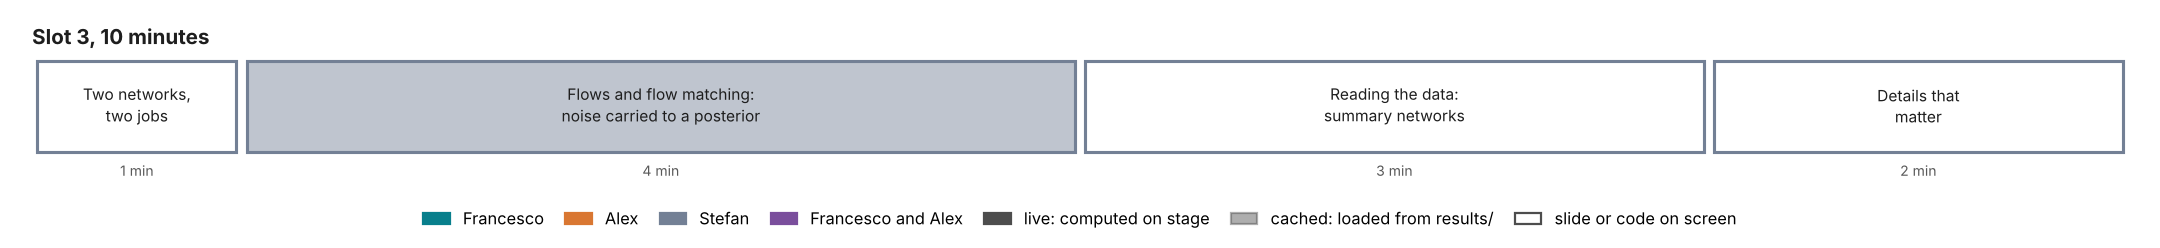
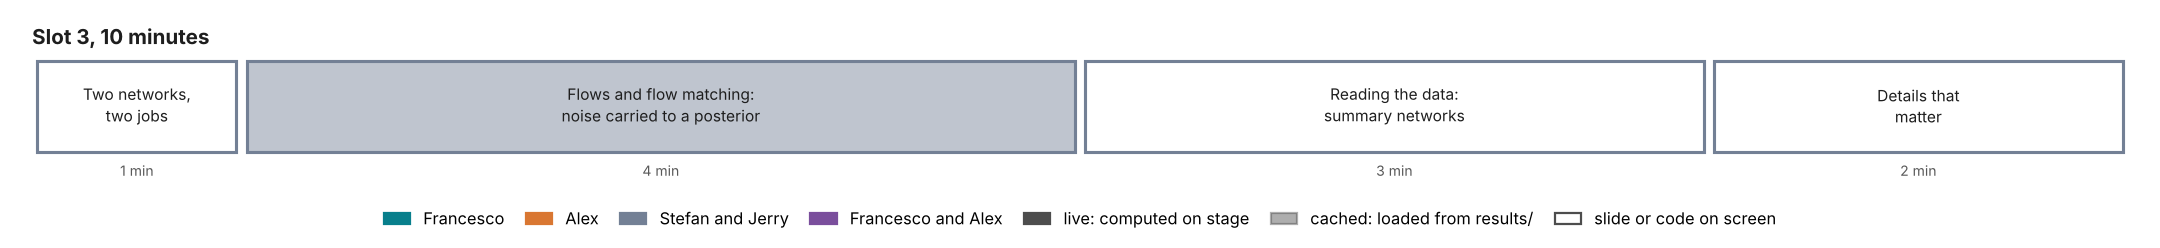
Give Jerry Stefan's slots, and drop the take-home track
- Slots 3, 4 and 6 name Stefan and Jerry: the overview's slot table,
  chart and dates, the slot files, and the storyboard figures, redrawn
  (ladder.png, which the notebooks show, is unchanged).
- Decision D21 applied: the summary, the gaps against the proposal and
  the slot files no longer send returns material to a take-home track;
  slot 3's notebook no longer points to a returns notebook.

Changed region(s): [[0.1551, 0.8468, 0.8375, 0.9315]]

diff --git a/tutorial/notebooks/slot3_architectures.py b/tutorial/notebooks/slot3_architectures.py
@@ -138,7 +138,7 @@ def _(mo):
     |:---|:---|:---|:---|
     | A smile on the design grid | a fixed vector of 63 prices (and, in slot 5, the forward-variance curve as context) | no summary network: the standardized prices enter as conditions | slots 4 and 5 |
     | A real option chain | a set of (log-moneyness, maturity, price, noise) tuples, of varying size and order | a set network (DeepSet, set transformer), invariant to the order of the quotes | the extension that removes the design grid |
-    | Daily returns | a series of 1,000 values | a time-series network: convolutions, then a recurrent or attention layer | the take-home returns notebook |
+    | Daily returns | a series of 1,000 values | a time-series network: convolutions, then a recurrent or attention layer | not in the tutorial |
     | Any data, for misspecification tests | any | a summary network trained with a distance term in its output space (Schmitt et al. 2024) | slot 6 |
 
     In BayesFlow each is one line, and the rest of the workflow does not change:
@@ -149,8 +149,7 @@ def _(mo):
     bf.networks.TimeSeriesNetwork(summary_dim=32)          # a return series
     ```
 
-    Where sufficient statistics exist, a learned summary rediscovers them: the take-home returns notebook
-    shows a time-series network recovering the log standard deviation of the returns unaided.
+    Where sufficient statistics exist, a learned summary rediscovers them.
 
     ## 3 · The configuration slot 4 trains
 

diff --git a/tutorial/curriculum/storyboard.py b/tutorial/curriculum/storyboard.py
@@ -22,7 +22,7 @@ OUT = TUTORIAL_DIR / "curriculum" / "images"
 COSTS = TUTORIAL_DIR / "assets" / "results" / "calibration" / "costs" / "costs.json"
 
 PRESENTER = {"F": "#087F8C", "A": "#D97732", "S": "#738095", "FA": "#7A4E9C"}
-NAMES = {"F": "Francesco", "A": "Alex", "S": "Stefan", "FA": "Francesco and Alex"}
+NAMES = {"F": "Francesco", "A": "Alex", "S": "Stefan and Jerry", "FA": "Francesco and Alex"}
 ALPHA = {"live": 1.0, "cached": 0.45, "slide": 1.0}
 TEXT = {"live": "white", "cached": "#1E1E1E", "slide": "#1E1E1E"}
 

diff --git a/tutorial/curriculum/00-overview.md b/tutorial/curriculum/00-overview.md
@@ -10,10 +10,10 @@ For the proposed next numerical campaign, read the [experiment plan](../../lab/p
 | --- | --- | --- | --- |
 | [01-slot1-the-problem.md](01-slot1-the-problem.md) | 1. The problem: Bayes for volatility models | Francesco | 15 |
 | [02-slot2-amortized-bayes.md](02-slot2-amortized-bayes.md) | 2. What is amortized Bayes? | Alex | 15 |
-| [03-slot3-architectures.md](03-slot3-architectures.md) | 3. Network architectures | Stefan | 10 |
-| [04-slot4-heston-in-bayesflow.md](04-slot4-heston-in-bayesflow.md) | 4. A worked example in BayesFlow: Heston on the SPY smile | Stefan | 20 |
+| [03-slot3-architectures.md](03-slot3-architectures.md) | 3. Network architectures | Stefan, Jerry | 10 |
+| [04-slot4-heston-in-bayesflow.md](04-slot4-heston-in-bayesflow.md) | 4. A worked example in BayesFlow: Heston on the SPY smile | Stefan, Jerry | 20 |
 | [05-slot5-rough-bergomi-to-a-reserve.md](05-slot5-rough-bergomi-to-a-reserve.md) | 5. Rough Bergomi on the SPY smile: from the posterior to a reserve | Francesco, Alex | 40 |
-| [06-slot6-priors-and-misspecification.md](06-slot6-priors-and-misspecification.md) | 6. Changing priors and dealing with misspecified models | Stefan | 15 |
+| [06-slot6-priors-and-misspecification.md](06-slot6-priors-and-misspecification.md) | 6. Changing priors and dealing with misspecified models | Stefan, Jerry | 15 |
 
 A number written ⟨Sn⟩ comes from study Sn ([course/status.md](../../course/status.md)) and is not on screen until [CLAIMS.md](../CLAIMS.md) records the final run.
 
@@ -32,9 +32,9 @@ Slots 2 and 3 explain the machine between them. Slot 6 changes the prior and the
 **What changed from revision 1, and why.**
 
 - **Slot 4 moves from returns to the smile.** It was GBM on VOO returns, under the real-world measure P, followed in slot 5 by option quotes under the pricing measure Q. That switch changed the data, the measure, the model and the question at once. Slot 4 is now Heston on the SPY smile, so slot 5 changes only the simulator. The exact Heston check moves from slot 5 to slot 4.
-- **The returns material goes home.** The VOO notebook, the SVJ lesson and the crash-day prior example become a take-home track (§6). This widens the gap against the proposal, which calibrates from returns (§8).
+- **The returns material is left out.** The VOO notebook, the SVJ lesson and the crash-day prior example are not part of the release (decision D21, §6). This widens the gap against the proposal, which calibrates from returns (§8).
 - **Slot 1 is rewritten slide by slide**, with one line of argument: the marking procedure, an example of the problem, what the rules ask for, the posterior in one live example, why richer models make it expensive, and the way around.
-- **Slots 2, 3 and 6 have proposals**, each built on the same smile, for Alex's and Stefan's review.
+- **Slots 2, 3 and 6 have proposals**, each built on the same smile, for Alex's, Stefan's and Jerry's review.
 
 **A feasibility run supports the new slot 4.** The exact Heston posterior on SPY ($\kappa$ = 2 fixed, the bank's prior box) was computed on 23 October in 531 CPU-seconds. Seven of eight optimizer starts spread over the prior box reach the same optimum, and four chains from overdispersed starts agree ($\hat R \le 1.007$). The posterior is tight: $\sigma_v$ = 1.14 ± 0.04 and $\rho$ = −0.63 ± 0.02. No draw satisfies the Feller condition: the vol-of-vol is about twice its Feller limit. The posterior prices variance swaps 0.6 to 1.7 volatility points below SPY's replicated strikes from two weeks to one year, with 90% bands 0.3 to 0.6 points wide. This gives slot 4 a real-data ending and slot 5 its reason to change model. Details are in the slot 4 file; the run is redone as study S8-H before its numbers go on screen.
 
@@ -95,10 +95,10 @@ The argument runs as one chain. Solid arrows are the main handoffs; dashed arrow
 ```mermaid
 flowchart LR
   S1["1. The problem<br/>Francesco, 15 min<br/>Black-Scholes on two SPY quotes"] -->|"richer models make the posterior expensive"| S2["2. Amortized Bayes<br/>Alex, 15 min<br/>a network learns slot 1's posterior"]
-  S2 -->|"what q must be, how to check it"| S3["3. Architectures<br/>Stefan, 10 min<br/>flow matching, summary networks"]
-  S3 -->|"the configuration"| S4["4. Heston on SPY in BayesFlow<br/>Stefan, 20 min<br/>checked against the exact posterior"]
+  S2 -->|"what q must be, how to check it"| S3["3. Architectures<br/>Stefan and Jerry, 10 min<br/>flow matching, summary networks"]
+  S3 -->|"the configuration"| S4["4. Heston on SPY in BayesFlow<br/>Stefan and Jerry, 20 min<br/>checked against the exact posterior"]
   S4 -->|"same smile and code, new simulator"| S5["5. Rough Bergomi on SPY<br/>Francesco and Alex, 40 min<br/>posterior, audit, reserve"]
-  S5 -->|"every range is conditional"| S6["6. Priors and misspecification<br/>Stefan, 15 min"]
+  S5 -->|"every range is conditional"| S6["6. Priors and misspecification<br/>Stefan and Jerry, 15 min"]
   S1 -.->|"the posterior is conditional on the model"| S6
   S4 -.->|"Heston's variance swaps below SPY's"| S6
 ```
@@ -171,9 +171,9 @@ The audience has read the proposal. Each promise the curriculum does not keep ne
 
 | The proposal promises | The curriculum | Proposed handling |
 | --- | --- | --- |
-| Calibration from return series (its Figure 1, "simulated pairs (parameters, return series)"), with joint returns-and-options calibration named as the follow-on edition | Every slot works on an option smile | Decision D16. Slot 1 says in one line why the afternoon uses options and that returns go home; the take-home track (§6) carries returns |
-| Propagation into volatility forecasts and value-at-risk (learning outcome 4) | Propagation into product prices and a reserve | Partly kept; VaR and volatility forecasts are in the take-home track |
-| Five model families: Heston, jump diffusion, GARCH, rough, multifractal | Black–Scholes, Heston, rough Bergomi; Heston with jumps as one slide | Name the take-home notebooks on slot 1's last slide, the SVJ and multifractal notebooks included; GARCH has no notebook: say so, or drop it from the slide |
+| Calibration from return series (its Figure 1, "simulated pairs (parameters, return series)"), with joint returns-and-options calibration named as the follow-on edition | Every slot works on an option smile | Decision D16. Slot 1 says in one line why the afternoon uses options and that returns are left out (decision D21) |
+| Propagation into volatility forecasts and value-at-risk (learning outcome 4) | Propagation into product prices and a reserve | Partly kept; VaR and volatility forecasts are left out (decision D21) |
+| Five model families: Heston, jump diffusion, GARCH, rough, multifractal | Black–Scholes, Heston, rough Bergomi; Heston with jumps as one slide | GARCH and the multifractal model are not covered: say so on slot 1's last slide |
 | Two notebooks live and one taken home, in student and solved versions, runnable on Colab | Live notebooks in slots 1, 2, 4, 5 and 6 | Decision D10 for the number; decision D17 for the student and solved versions; on Colab, the tutorial installs with pip (`tutorial/README.md`) |
 | Half a day, 3.5 hours: principles (1 h with a break), a worked example hands-on (1.5 h with a break), advanced concepts and a second example (1 h with a 15-minute Q&A) | 115 minutes of talks; about 95 minutes of the 3.5 hours unassigned | Decision D12: assign the time to breaks, the Q&A and exercises after slots 4 and 5 |
 | A close with "a broader view of the field and recent developments" | Slot 6's last minute | Slot 6's close names recent developments in one slide, or the Q&A opens with them |
@@ -181,7 +181,7 @@ The audience has read the proposal. Each promise the curriculum does not keep ne
 | Four organizers teaching | Jerry Huang has the same role as Stefan | Decision D18 |
 | "Attendees calibrate real market data and sign off on the diagnostics" | Presenters do it on SPY | Decision D12: exercises after slots 4 and 5 |
 | LLM-based verification agents, used hands-on | Not in any slot | Decision D11: a two-minute demonstration in slot 4's check step, or drop it and say so |
-| "Special emphasis" on learning from series of different scales, dimensions, lengths and degrees of missingness; autoregressive samplers | Not in any slot; the smile is a fixed grid | The largest content gap after returns. Slot 3 can show the set network for real chains as the answer for quotes; time series stay in the take-home track. Say so rather than imply coverage |
+| "Special emphasis" on learning from series of different scales, dimensions, lengths and degrees of missingness; autoregressive samplers | Not in any slot; the smile is a fixed grid | The largest content gap after returns. Slot 3 can show the set network for real chains as the answer for quotes; time series are not covered. Say so rather than imply coverage |
 | "Full posterior distributions in milliseconds" | 1.4 s for 1,000 draws | Say seconds |
 | Mis-specification diagnostics (learning outcome 2) | Slot 6 | Kept |
 | Read identifiability off the posterior (learning outcome 3) | Slots 4 and 5 | Kept |
@@ -192,10 +192,10 @@ The audience has read the proposal. Each promise the curriculum does not keep ne
 | --- | --- | --- |
 | Sat 24 Oct | G0′ passed: the rough bank's curve prior covers SPY's curve | Done |
 | Wed 28 Oct | G1: the full rough bank and its quality (S1) | Alex |
-| Fri 30 Oct | G2: SBC of the rough network on the full bank (S2); freeze of slot 4; S8-H (Heston on SPY) accepted | Alex; Stefan |
+| Fri 30 Oct | G2: SBC of the rough network on the full bank (S2); freeze of slot 4; S8-H (Heston on SPY) accepted | Alex; Stefan and Jerry |
 | Tue 3 Nov | G3: the audit on held-out smiles, with the corrected likelihood (S5) | Alex |
-| Wed 4 Nov | G4: the posterior predictive check on SPY (S8); freezes of slots 1, 2 and 3 | Francesco; Alex; Stefan |
-| Fri 6 Nov | Freezes of slots 5 and 6 | Francesco, Alex, Stefan |
+| Wed 4 Nov | G4: the posterior predictive check on SPY (S8); freezes of slots 1, 2 and 3 | Francesco; Alex; Stefan and Jerry |
+| Fri 6 Nov | Freezes of slots 5 and 6 | Francesco, Alex, Stefan, Jerry |
 | Mon 9 Nov | Full timed run-through | All |
 | Wed 11 Nov | Release tag; participant README | Francesco |
 

diff --git a/tutorial/curriculum/06-slot6-priors-and-misspecification.md b/tutorial/curriculum/06-slot6-priors-and-misspecification.md
@@ -1,6 +1,6 @@
 # Slot 6. Changing priors and dealing with misspecified models
 
-Stefan · 15 minutes · last slot of the afternoon. A proposal for Stefan's review. Part of the [curriculum](00-overview.md).
+Stefan and Jerry · 15 minutes · last slot of the afternoon. A proposal for Stefan and Jerry's review. Part of the [curriculum](00-overview.md).
 
 ![Minute map of slot 6](images/slot-6.png)
 
@@ -27,9 +27,9 @@ Slot 5 ends on four conditions: the prior, the noise model, the forward-variance
 | 6–8 | 3. The noise model is a choice | The Heston network of (c), with the noise multiplier $c$ as a second condition: $c$ from 0.5 to 3 on a slider, the posterior width and the variance-swap range following | live | The quotes' noise is an assumption, and the posterior's width scales with it. The noise model is stated, and the range is shown under alternatives. |
 | 8–13 | 4. When the model is wrong: four detectors | One example per detector, all on the tutorial's smiles: (i) the input check: SPY's forward-variance curve against the pilot's curve prior (outside it, gate G0); (ii) the posterior predictive check: Heston's re-priced smiles on SPY, with their over-curved short smiles, and slot 4's variance swaps; (iii) the audit: Heston on a rough-Bergomi pilot smile, $\chi^2$ of 1,347 on 63 quotes, $\hat k$ = 154; (iv) a learned summary space: the distance of SPY and of rough-Bergomi smiles from the Heston training set (Schmitt et al. 2024) | (i)–(iii) cached; (iv) cached if built | The network gives a confident posterior for any input. Each detector looks from outside: at the inputs, at the fit, at the likelihood, or at the summaries. |
 | 13–14 | 5. Across models | Slot 5's two forward-start distributions on SPY, Heston and rough Bergomi; if they are late, the pilot's three smiles | cached | When both models are wrong in different ways, report both and the spread between them, judged smile by smile. Model averaging and stacking are the formal versions. |
-| 14–15 | 6. Close | What the afternoon showed, in three lines; the take-home track; the repository | slide | The method needs a simulator, a prior and a noise model, and it is only as good as its checks. |
+| 14–15 | 6. Close | What the afternoon showed, in three lines; the repository | slide | The method needs a simulator, a prior and a noise model, and it is only as good as its checks. |
 
-**Optional slides.** The minute plan has no free minute, so two slides of the course's [version-2 plan](../../course/v2-plan.md) are optional: pooling across names (Section 2.3) and the prior beyond the last quote (Section 2.2). Both are specified below, at one minute each. Each can take the time of a piece that is not built (Open choices for Stefan).
+**Optional slides.** The minute plan has no free minute, so two slides of the course's [version-2 plan](../../course/v2-plan.md) are optional: pooling across names (Section 2.3) and the prior beyond the last quote (Section 2.2). Both are specified below, at one minute each. Each can take the time of a piece that is not built (Open choices for Stefan and Jerry).
 
 ## The pieces, specified
 
@@ -62,7 +62,7 @@ The bank of slot 4 is regenerated with $(m, w, c)$ drawn per smile: about 46 CPU
 | The audit | That the network's posterior survives reweighting by the likelihood | Heston on rough pilot smile 291: $\chi^2$ of 1,347 on 63 quotes, $\hat k$ = 154 | Seconds for Heston, about 7 CPU-minutes for rough Bergomi |
 | Learned summary space | That the data's learned summaries lie inside the training set's (Schmitt et al. 2024) | SPY and rough-Bergomi smiles against the Heston training set | Needs a Heston network with a summary network trained with the distance term |
 
-The fourth detector is the one slot 3 names. It needs a summary network, which slots 4 and 5 do not use: building it is a choice for Stefan (below).
+The fourth detector is the one slot 3 names. It needs a summary network, which slots 4 and 5 do not use: building it is a choice for Stefan and Jerry (below).
 
 ### Optional slide: pooling across names
 
@@ -92,12 +92,12 @@ The fourth detector is the one slot 3 names. It needs a summary network, which s
 2. The sensitivity-aware Heston network: a bank with $(s, c)$ per smile and one training run.
 3. Optionally, a Heston network with a summary network trained with the distance term of Schmitt et al. (2024), for the fourth detector.
 
-## Open choices for Stefan
+## Open choices for Stefan and Jerry
 
 - Whether the sensitivity-aware network is built, or section 2(c) and section 3 use reweighting only. Reweighting a narrower posterior to a wider one (a larger noise) is unreliable, so the noise slider needs the network.
 - Whether to build the summary-space detector, or show the first three detectors only.
 - Whether to show the two optional slides, at one minute each. The time could come from section 2(c) if the sensitivity-aware network is not built, or from detector (iv) if the summary-space detector is not.
-- Whether to keep a returns example. The crash-day example (branch `feat/tutorial-slot6-crash-risk`, #42), in which the prior decides much of the answer, is ready as a take-home notebook, and could replace section 2(a) if a returns example is preferred.
+- Whether to keep a returns example. The crash-day example (branch `feat/tutorial-slot6-crash-risk`, #42), in which the prior decides much of the answer, is drafted as a notebook, and could replace section 2(a) if a returns example is preferred.
 
 ## References for the slot
 

diff --git a/tutorial/curriculum/03-slot3-architectures.md b/tutorial/curriculum/03-slot3-architectures.md
@@ -1,6 +1,6 @@
 # Slot 3. Network architectures for amortized inference
 
-Stefan · 10 minutes. A proposal for Stefan's review. Part of the [curriculum](00-overview.md).
+Stefan and Jerry · 10 minutes. A proposal for Stefan and Jerry's review. Part of the [curriculum](00-overview.md).
 
 ![Minute map of slot 3](images/slot-3.png)
 
@@ -41,7 +41,7 @@ Sampling integrates $dz/d\tau = u_\phi(z, \tau, y)$ from $\tau = 0$ to 1. Slots 
 | --- | --- | --- | --- |
 | A smile on the design grid | A fixed vector of 63 prices, plus the forward-variance curve as context in slot 5 | No summary network: standardized quotes as conditions | Slots 4 and 5 |
 | A real option chain | A set of (log-moneyness, maturity, price, noise) tuples, of varying size and order | A set network (DeepSet, set transformer), invariant to the order of the quotes | The extension that removes the design grid (Stage D) |
-| Daily returns | A series of 1,000 values | A time-series network (convolutions, then a recurrent or attention layer) | The take-home returns notebook |
+| Daily returns | A series of 1,000 values | A time-series network (convolutions, then a recurrent or attention layer) | Not in the tutorial |
 | Any data, for misspecification tests | Whatever shape | A summary network trained with a distance term in its output space (Schmitt et al. 2024) | Slot 6 |
 
 ## The configuration, line by line
@@ -65,7 +65,7 @@ Normalizing flows and flow matching; the choice of summary network by data shape
 1. The five-snapshot figure of the flow on SPY, from the slot-4 network, with intermediate states saved from a custom Euler loop.
 2. The coupling-layer diagram and the data-shapes table as slides.
 
-## Open choices for Stefan
+## Open choices for Stefan and Jerry
 
 - Whether to mention diffusion and consistency models, and autoregressive samplers, which the proposal lists among the advanced concepts. One sentence each meets the proposal.
 - Whether the set network for real chains is shown as a result or only named. It is not built yet.

diff --git a/tutorial/curriculum/01-slot1-the-problem.md b/tutorial/curriculum/01-slot1-the-problem.md
@@ -115,8 +115,8 @@ The notebook `slot1_intro.py` runs three cells, each in under a second.
   | 5 | Rough Bergomi on the SPY smile, from the posterior to a reserve |
   | 6 | What changes when the prior or the model is wrong? |
 
-  A footer: everything shown is in the repository, with a ledger of where each number comes from; returns and value-at-risk notebooks go home.
-- **Said.** One smile, three models, one question. The same approach applies to a value-at-risk computed from returns, and the take-home notebooks do that.
+  A footer: everything shown is in the repository, with a ledger of where each number comes from.
+- **Said.** One smile, three models, one question. The same approach applies to a value-at-risk computed from returns.
 
 ## The live notebook
 
@@ -165,9 +165,9 @@ The notebook's text changes with the data. On SPY the posterior from both quotes
 
 ## What is left out, and why
 
-- **Option D, betas across stocks** (branch `feat/tutorial-slot1-intro`). Strong, reviewed, and about betas rather than volatility; no later slot uses cross-sectional shrinkage. It goes to the take-home track.
-- **The proposal's Figure 1, Heston from a year of returns.** Its source is not in `tutorial/`, and the afternoon no longer uses returns. It can return as one sentence on slide 11 if its source is committed.
-- **Returns and value-at-risk.** One sentence on slide 11; the take-home notebooks carry them (overview, §6).
+- **Option D, betas across stocks** (branch `feat/tutorial-slot1-intro`). Strong, reviewed, and about betas rather than volatility; no later slot uses cross-sectional shrinkage.
+- **The proposal's Figure 1, Heston from a year of returns.** Its source is not in `tutorial/`, and the afternoon does not use returns. It can return as one sentence on slide 11 if its source is committed.
+- **Returns and value-at-risk.** One sentence on slide 11 says the afternoon leaves them out (overview, §6).
 
 ## To build, by the freeze on Wed 4 Nov
 

diff --git a/tutorial/curriculum/04-slot4-heston-in-bayesflow.md b/tutorial/curriculum/04-slot4-heston-in-bayesflow.md
@@ -1,6 +1,6 @@
 # Slot 4. A worked example in BayesFlow: Heston on the SPY smile
 
-Stefan · 20 minutes. A proposal for Stefan's review. Part of the [curriculum](00-overview.md).
+Stefan and Jerry · 20 minutes. A proposal for Stefan and Jerry's review. Part of the [curriculum](00-overview.md).
 
 ![Minute map of slot 4](images/slot-4.png)
 
@@ -24,8 +24,6 @@ Heston fits the role of the model with an exact answer:
 - its likelihood is exact, so its posterior can be computed by MCMC in minutes and compared with the network's;
 - it fits the SPY smile with a root-mean-square residual of about one noise unit (Lecture 11, Section 11.1), under a noise that is loose in the wings, so the example is real data, not a toy;
 - its fit has visible defects, which motivate slot 5.
-
-The returns notebook moves to the take-home track (overview, §6).
 
 ## The model and the task
 
@@ -115,8 +113,6 @@ The notebook `notebooks/tutorial_4_bayesflow_basics.py` (branch `feat/tutorial-s
 2. the reading of the four diagnostic plots;
 3. the "check before you trust" structure, with the exact posterior as the final check.
 
-The VOO notebook itself moves, edited, to the take-home track as `extras/returns_bayesflow_basics.py`.
-
 ## The handoff to slot 5
 
 | | Slot 4 | Slot 5 |
@@ -133,8 +129,7 @@ The VOO notebook itself moves, edited, to the take-home track as `extras/returns
 
 1. `slot4_heston_bayesflow.py`, cell by cell as above.
 2. Study S8-H: the Heston network's posterior and the exact chain on SPY, through `lab/studies/`, with an `ACCEPTED.json`; register its numbers in CLAIMS.md.
-3. Move the VOO notebook to `extras/`.
-4. Time the training cell on the presenter's laptop with the locked environment; set the number of live epochs to fit one minute.
+3. Time the training cell on the presenter's laptop with the locked environment; set the number of live epochs to fit one minute.
 
 ## Course lectures behind slot 4
 
